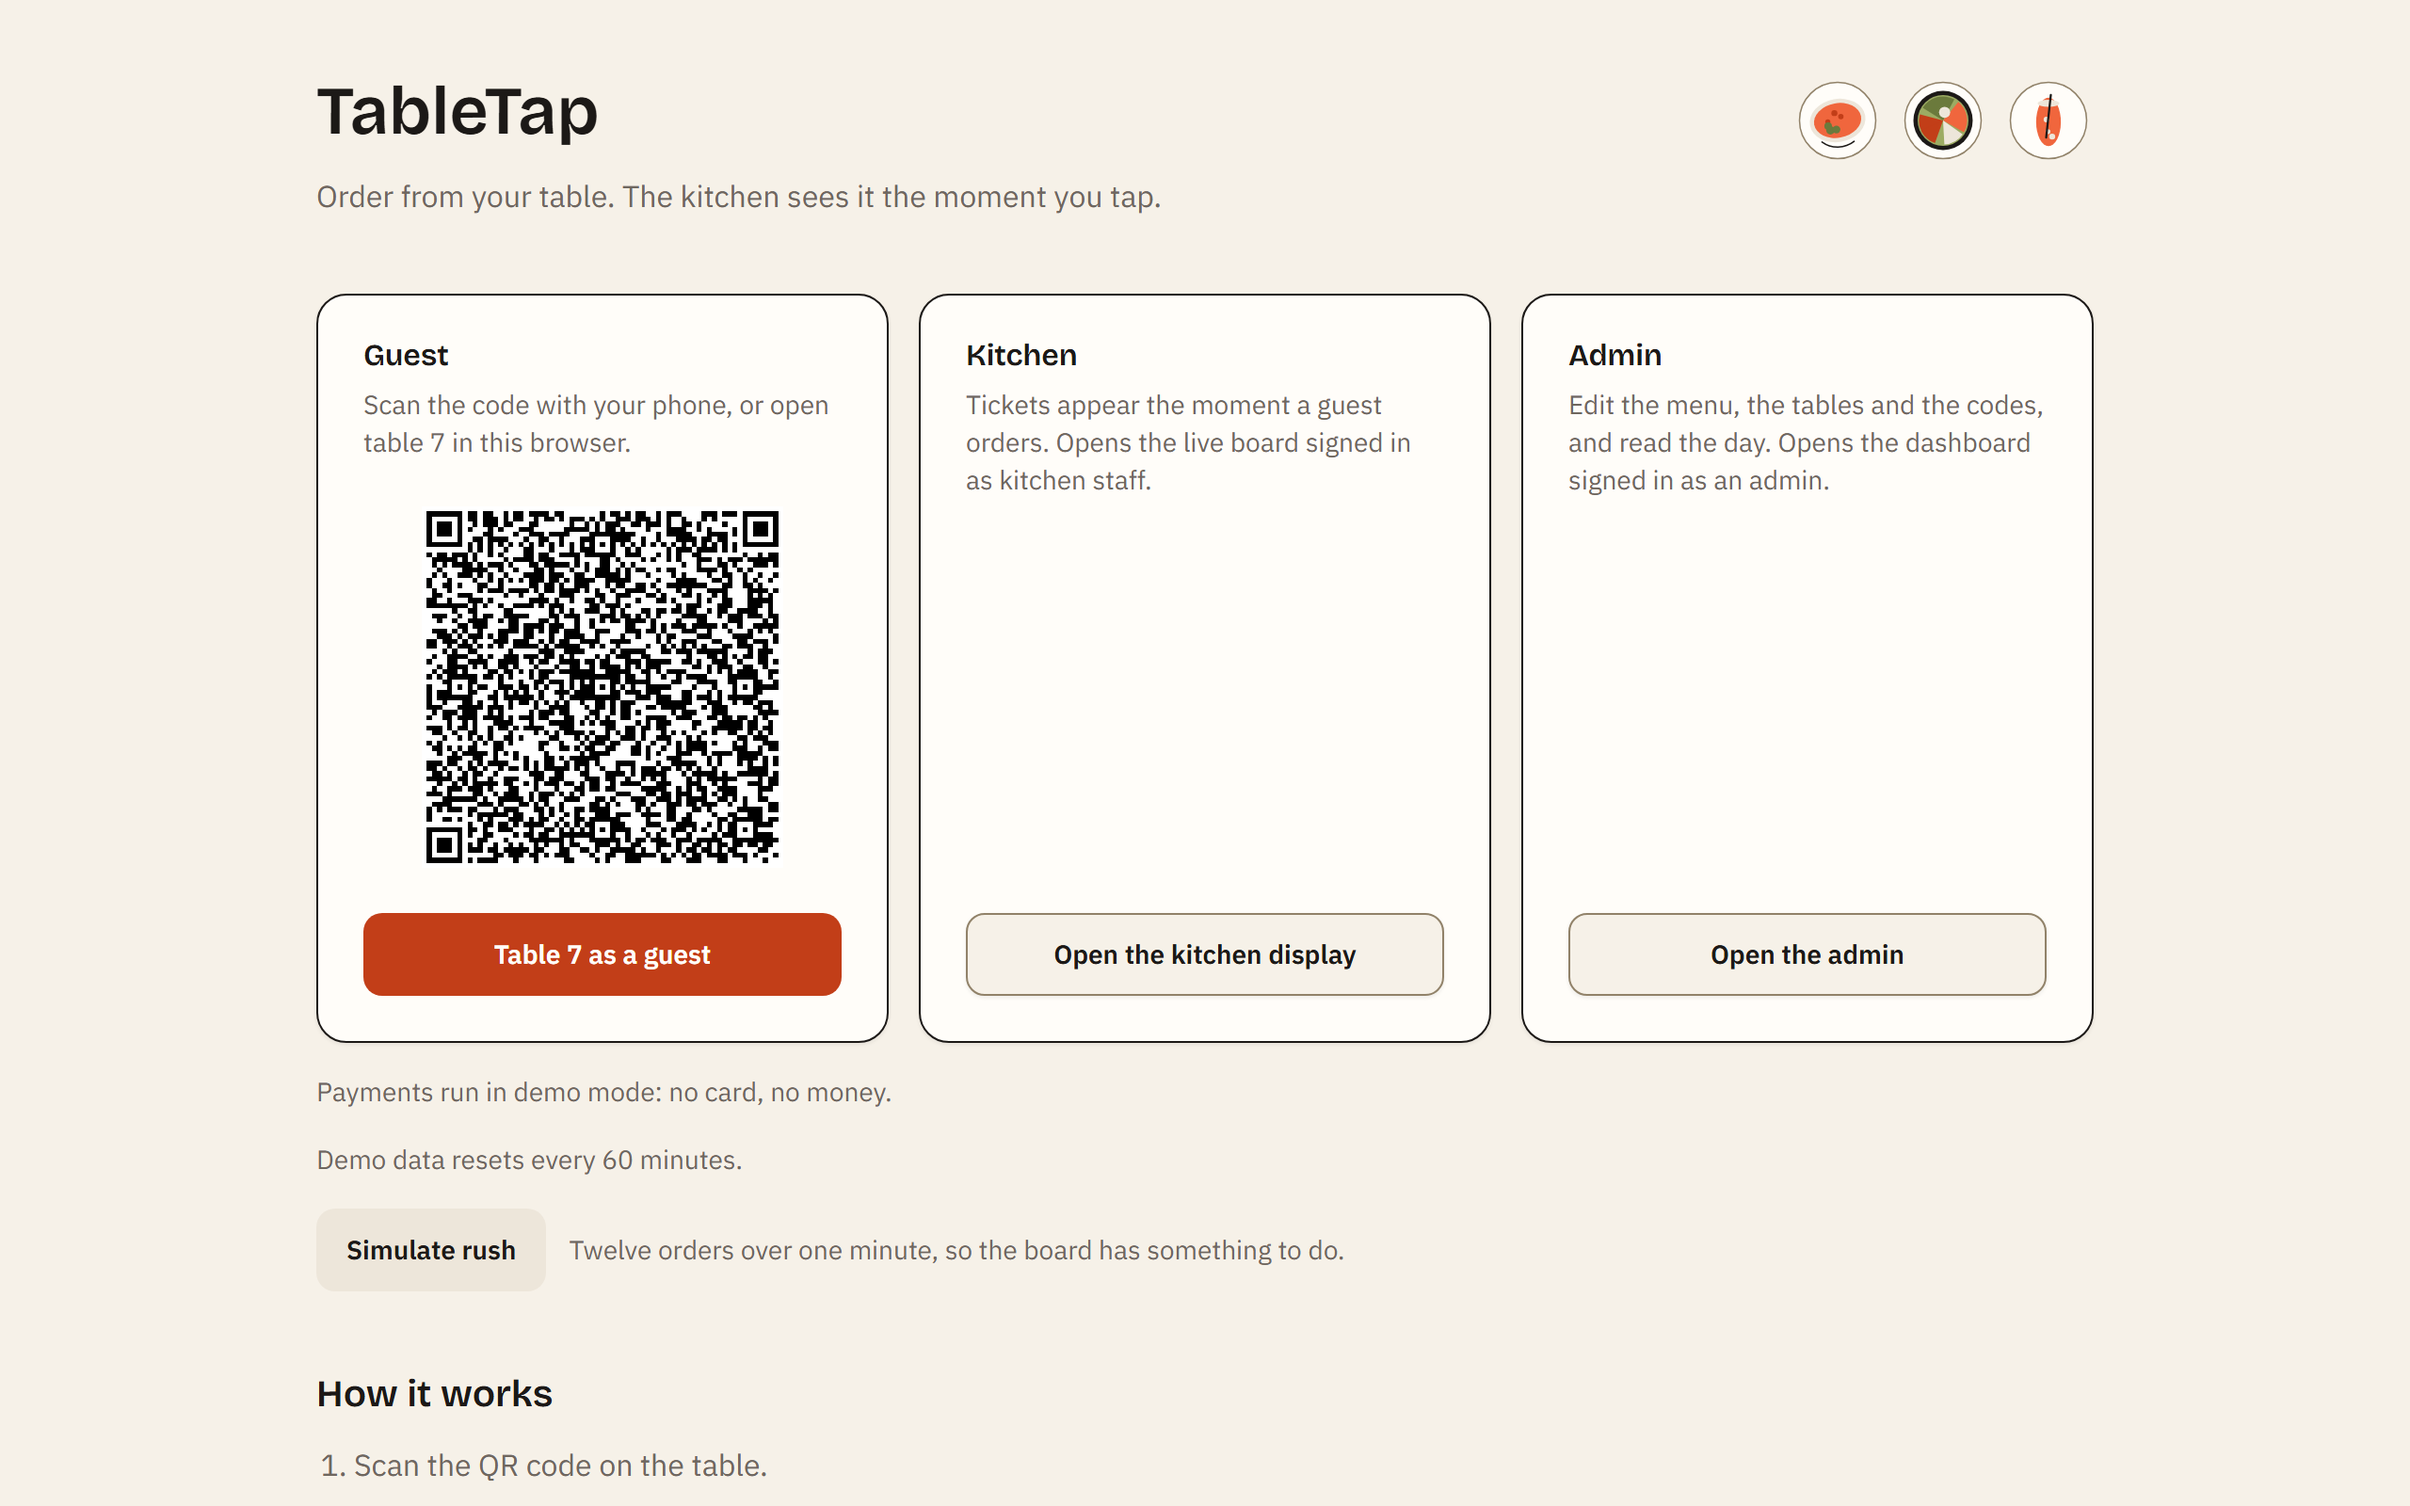
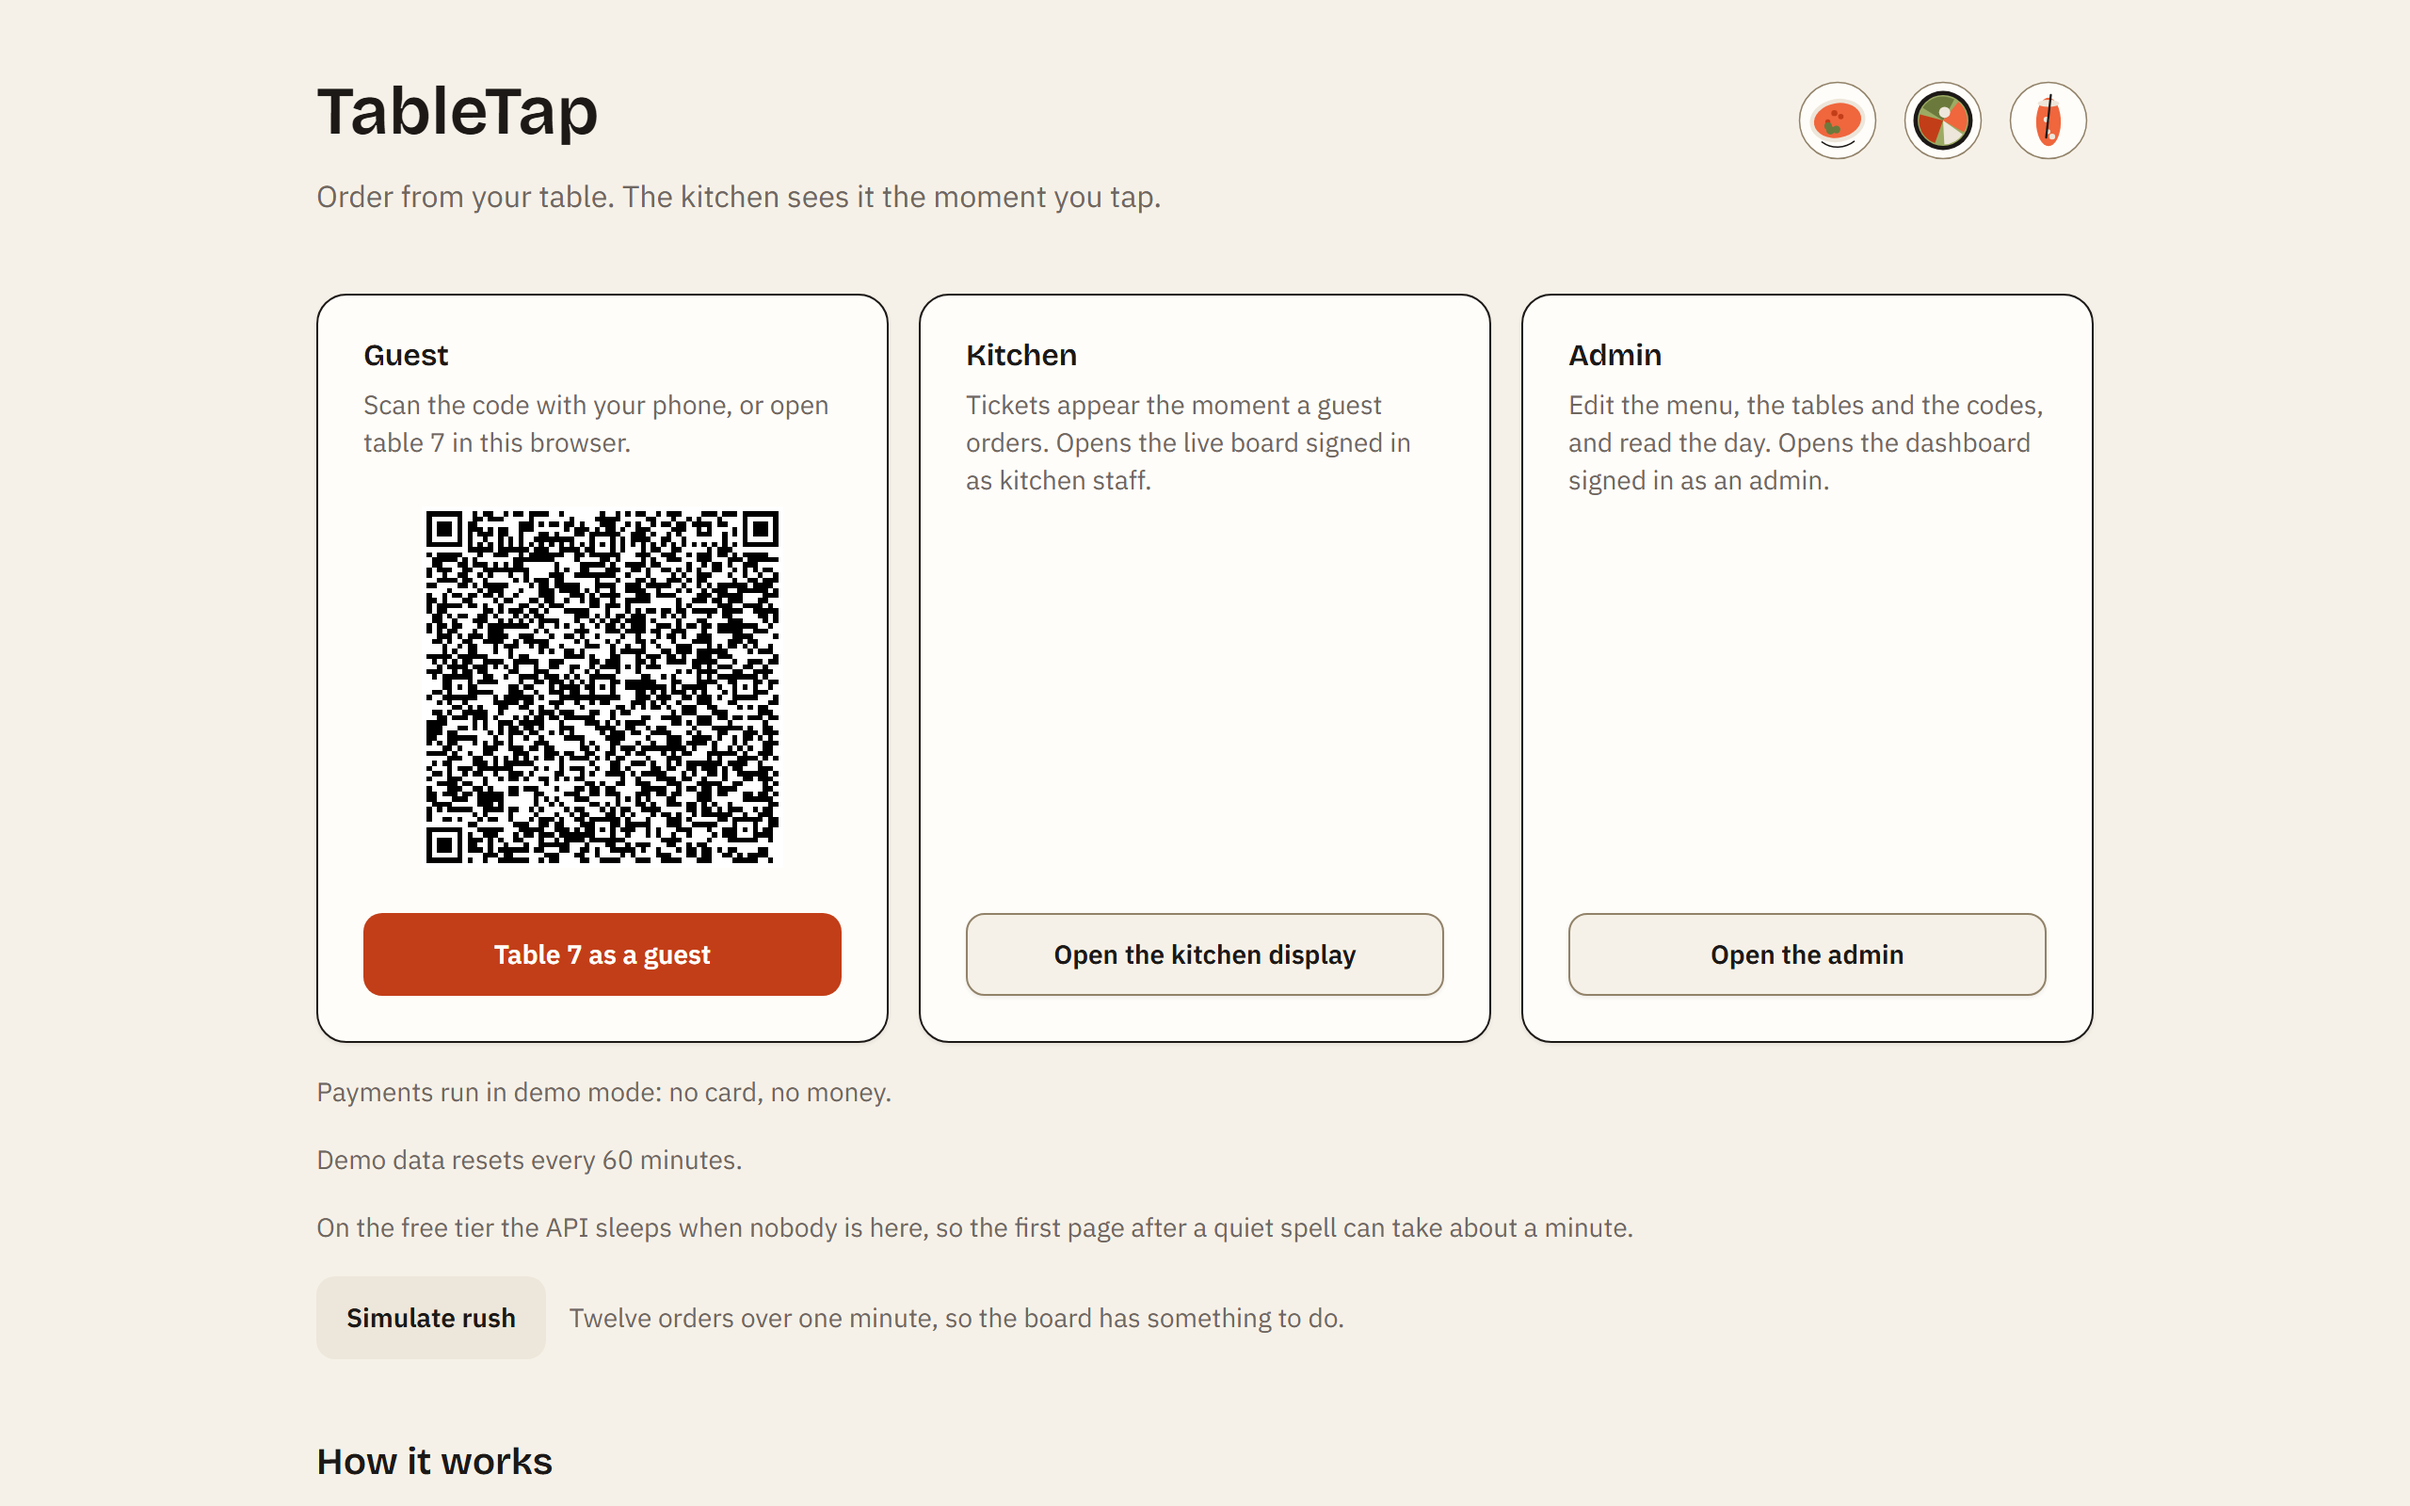
docs: retake the landing screenshot now that the notice is deployed
The shot showed two demo notices where the site shows three; the cold-start line
was added by this milestone and could only be photographed once main was
deployed. Closes the backlog entry that recorded the gap.

diff --git a/docs/backlog.md b/docs/backlog.md
@@ -441,11 +441,6 @@ single shared rate-limit bucket — rather than repeated here.
 
 **Documents and identity**
 
-- **`docs/screenshots/landing.png` predates the cold-start notice** this milestone added: it shows two
-  notices where the site now shows three, and the M6 fix wave then widened the third to render on the
-  API-did-not-answer path as well. It cannot be retaken until the branch is deployed, which is the
-  only honest order for it. Nothing in the README is false meanwhile — the alt text says "the demo
-  notices" and states no count.
 - `apps/web/app/icon.svg`'s comment names `mark.tsx` but not `apple-icon.tsx`. Not a gap in practice —
   the chain closes, because `icon.svg` points at `mark.tsx` and `mark.tsx` enumerates all three copies
   of the geometry — so it is only worth touching if someone is in that file anyway.
